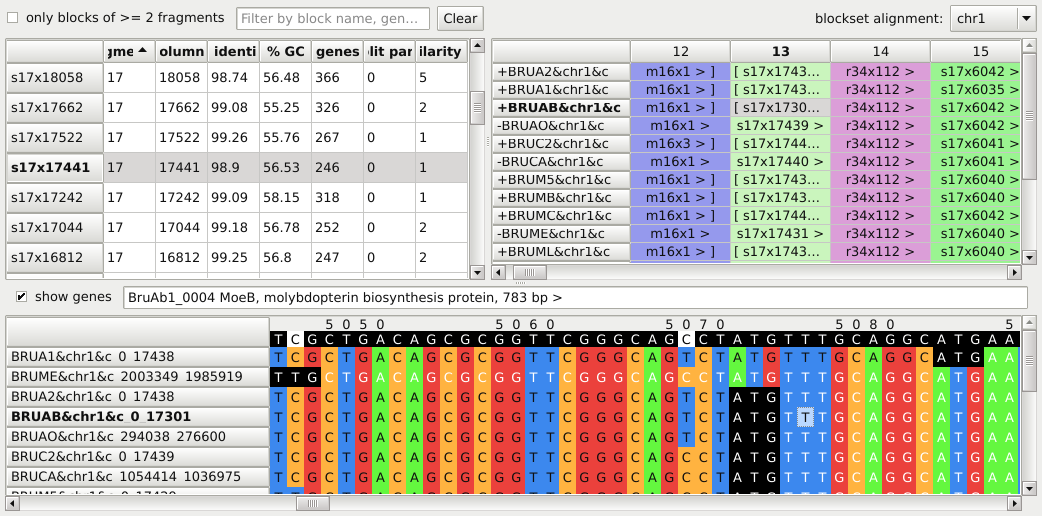
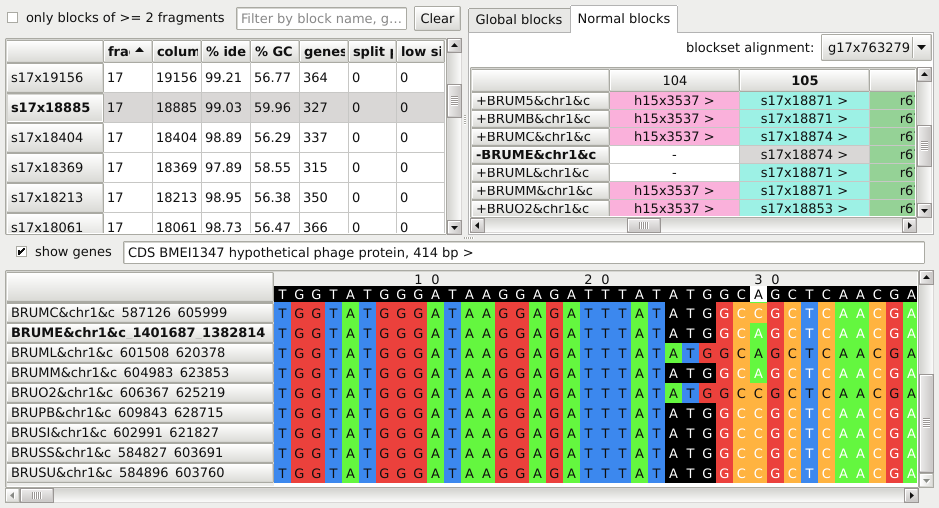
update screenshot of qnpge

diff --git a/README.md b/README.md
@@ -278,7 +278,7 @@ Files `*.bs` contain blocksets,
 $ qnpge
 ```
 
-![Graphical User Interface of NPG-explorer](http://i.imgur.com/jJHZEse.png)
+![Graphical User Interface of NPG-explorer](http://i.imgur.com/f1LNSSL.png)
 
 This command uses `pangenome.bs` and some of files
 created by PostProcessing.
